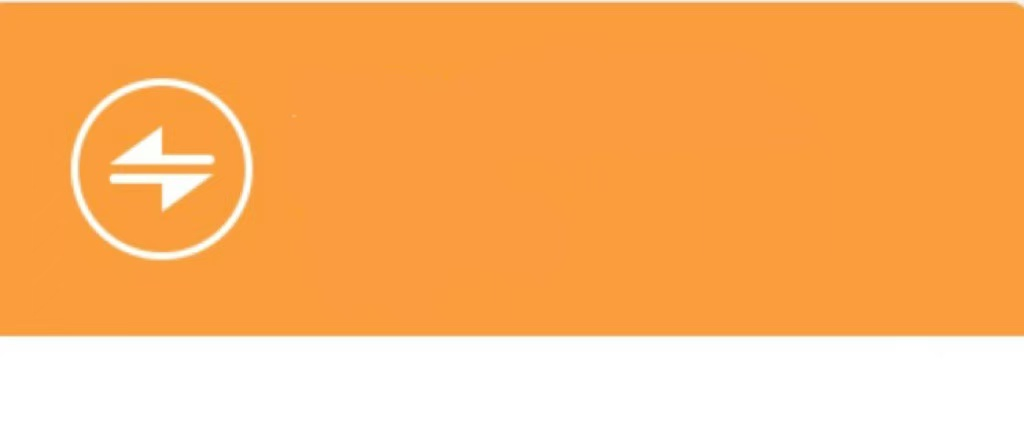
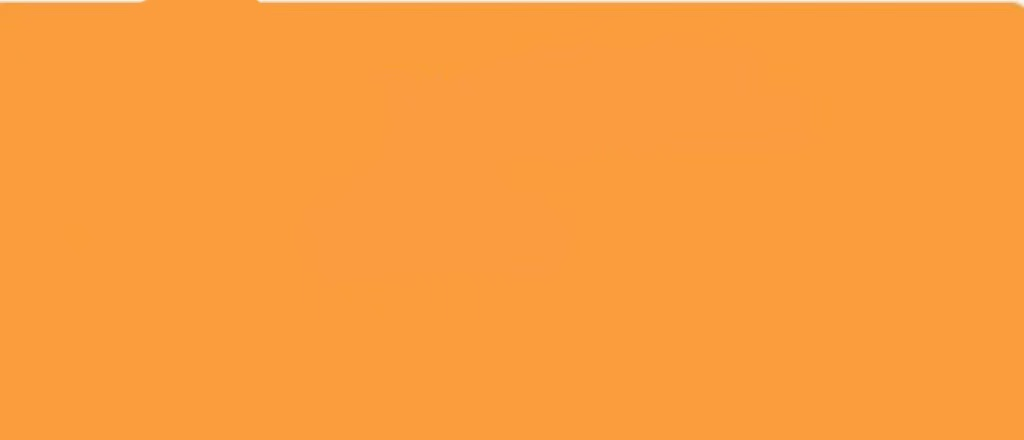
Changes

Changed region(s): [[0.0, 0.7386, 1.0, 1.0], [0.0625, 0.1773, 0.25, 0.5909], [0.125, 0.0, 0.25, 0.0295]]

diff --git a/src/components/chat/TransferCard.tsx b/src/components/chat/TransferCard.tsx
@@ -1,6 +1,6 @@
-import React from 'react';
-import { motion } from 'framer-motion';
-import { Zap } from 'lucide-react';
+import React, { useState } from 'react';
+import { motion, AnimatePresence } from 'framer-motion';
+import { Zap, Check } from 'lucide-react';
 import transferBg from '@/assets/transfer-card-bg.jpg';
 
 interface TransferCardProps {
@@ -18,51 +18,84 @@ const TransferCard: React.FC<TransferCardProps> = ({
   isReceived,
   onReceive
 }) => {
+  const [showOpened, setShowOpened] = useState(false);
+
+  const handleReceive = () => {
+    setShowOpened(true);
+    onReceive?.();
+  };
+
   return (
     <motion.div
       initial={{ scale: 0.9, opacity: 0 }}
       animate={{ scale: 1, opacity: 1 }}
-      className="w-full max-w-[260px] rounded-xl overflow-hidden shadow-lg"
+      className="w-full max-w-[220px] rounded-lg overflow-hidden shadow-md"
     >
-      {/* Header with background image and overlay */}
+      {/* Header with background */}
       <div 
-        className="relative p-4 pb-6"
+        className="relative px-3 py-2.5"
         style={{
           backgroundImage: `url(${transferBg})`,
           backgroundSize: 'cover',
-          backgroundPosition: 'center top'
+          backgroundPosition: 'center'
         }}
       >
-        {/* Dark gradient overlay for better text readability */}
-        <div className="absolute inset-0 bg-gradient-to-b from-black/40 via-black/20 to-black/50" />
-        
-        <div className="relative z-10 flex items-start gap-3">
-          <div className="w-10 h-10 rounded-full border-2 border-white/80 flex items-center justify-center bg-white/20 backdrop-blur-sm">
-            <Zap className="w-5 h-5 text-white" fill="white" />
+        <div className="relative z-10 flex items-start gap-2">
+          <div className="w-7 h-7 rounded-full border border-white/70 flex items-center justify-center bg-white/20 backdrop-blur-sm flex-shrink-0">
+            <Zap className="w-3.5 h-3.5 text-white" fill="white" />
           </div>
-          <div className="flex-1">
-            <p className="text-white/95 text-sm font-medium drop-shadow-sm">{characterName} 向你转账</p>
-            <p className="text-white font-bold text-2xl mt-1 drop-shadow-md">¥{amount.toFixed(2)}</p>
+          <div className="flex-1 min-w-0">
+            <p className="text-white/95 text-xs font-medium truncate">{characterName} 向你转账</p>
             {message && (
-              <p className="text-white/90 text-xs mt-1.5 drop-shadow-sm">{message}</p>
+              <p className="text-white/90 text-[10px] mt-0.5 truncate">{message}</p>
             )}
           </div>
         </div>
       </div>
       
-      {/* White footer */}
-      <div className="bg-white p-3 flex items-center justify-between">
-        <span className="text-xs text-gray-400">梦境转账</span>
-        {!isReceived ? (
-          <button
-            onClick={onReceive}
-            className="px-4 py-1.5 bg-gradient-to-r from-orange-400 to-orange-500 text-white text-sm rounded-full font-medium hover:opacity-90 transition-opacity"
-          >
-            收款
-          </button>
-        ) : (
-          <span className="text-xs text-green-500 flex items-center gap-1">
-            ✓ 已收款
+      {/* Content area */}
+      <div className="bg-[#FFA940] px-3 py-2">
+        <AnimatePresence mode="wait">
+          {!isReceived && !showOpened ? (
+            <motion.div
+              key="unreceived"
+              initial={{ opacity: 1 }}
+              exit={{ opacity: 0, scale: 0.95 }}
+              className="flex items-center justify-between"
+            >
+              <span className="text-white/80 text-[10px]">点击领取</span>
+              <button
+                onClick={handleReceive}
+                className="px-3 py-1 bg-white text-orange-500 text-xs rounded font-medium hover:bg-white/90 transition-colors"
+              >
+                领取红包
+              </button>
+            </motion.div>
+          ) : (
+            <motion.div
+              key="received"
+              initial={{ opacity: 0, scale: 0.95 }}
+              animate={{ opacity: 1, scale: 1 }}
+              className="text-center py-1"
+            >
+              <div className="flex items-center justify-center gap-1 mb-1">
+                <Check className="w-3 h-3 text-white" />
+                <span className="text-white text-[10px]">已领取</span>
+              </div>
+              <p className="text-white font-bold text-lg">¥{amount.toFixed(2)}</p>
+              <p className="text-white/70 text-[10px] mt-0.5">已存入梦境钱包</p>
+            </motion.div>
+          )}
+        </AnimatePresence>
+      </div>
+      
+      {/* Footer */}
+      <div className="bg-white px-3 py-1.5 flex items-center justify-between">
+        <span className="text-[10px] text-gray-400">梦境转账</span>
+        {(isReceived || showOpened) && (
+          <span className="text-[10px] text-green-500 flex items-center gap-0.5">
+            <Check className="w-2.5 h-2.5" />
+            已收款
           </span>
         )}
       </div>
